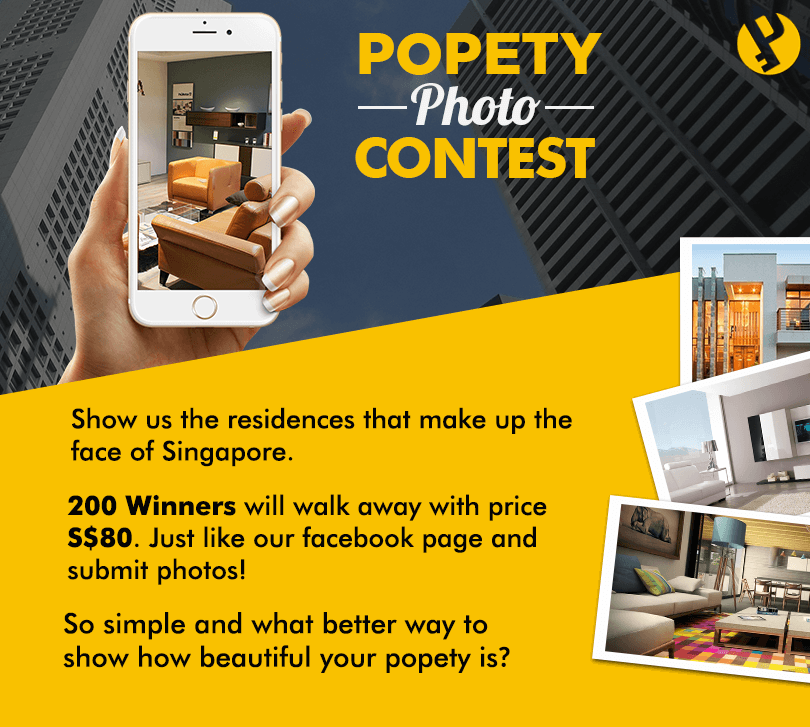
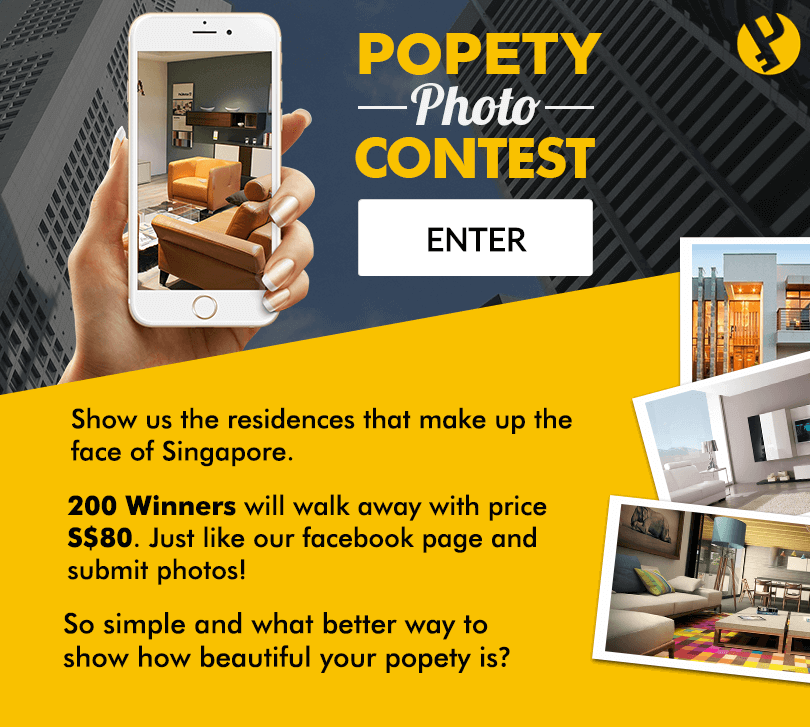
img added

Changed region(s): [[0.4321, 0.2724, 0.7407, 0.3934]]

diff --git a/public/templates/home.html b/public/templates/home.html
@@ -1,11 +1,11 @@
 <section class="new_homepage" data-ng-controller="homeController" style="position:relative;">
 
-				<img src="images/home_bg.png" data-ng-click="getUserData()">
+				<img src="images/home_bg.png" data-ng-click="getUserData()" style="    cursor: pointer;">
 
-				<div id="like-wrapper">
+				<!-- <div id="like-wrapper">
 					<button type="button" id="mycustombutton" data-ng-click="getUserData()">ENTER</button>
-					<!-- <div class="fb-like" data-href="https://www.facebook.com/popetyworld" data-layout="button" data-action="like" data-show-faces="false" data-share="false"></div> -->
-				</div>
+					
+				</div> -->
 
 				<div class="popup" id="popup-4">
 					<div class="popup__inner ok-popup">
